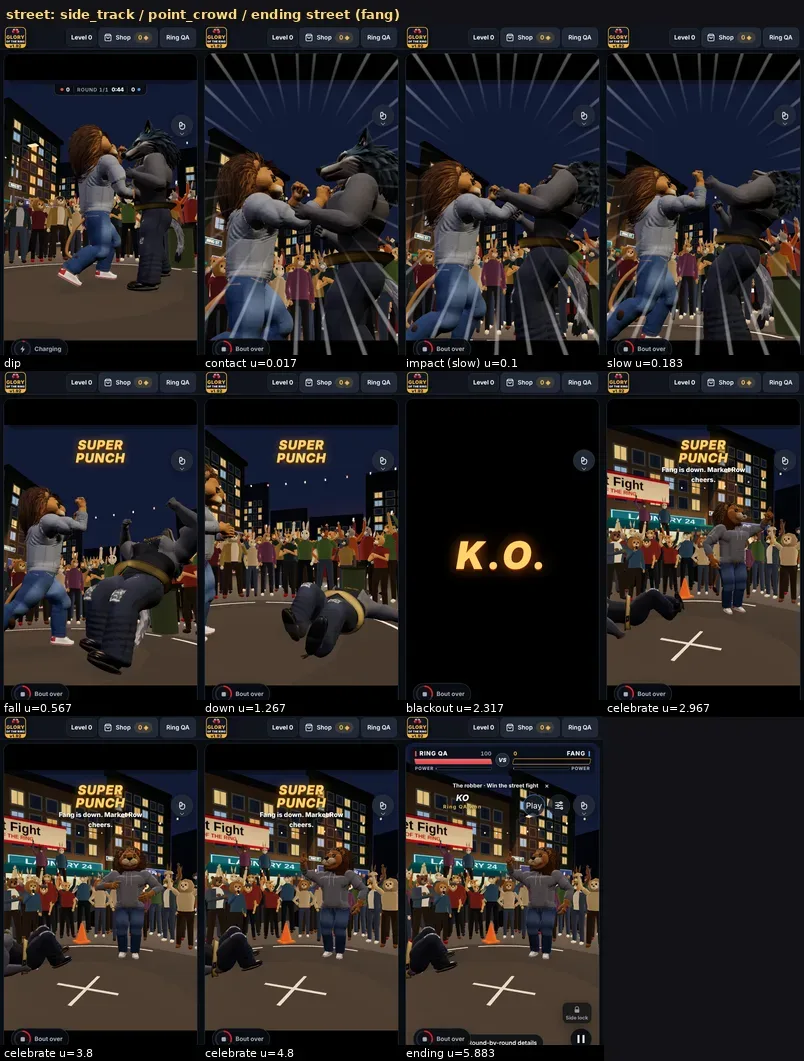
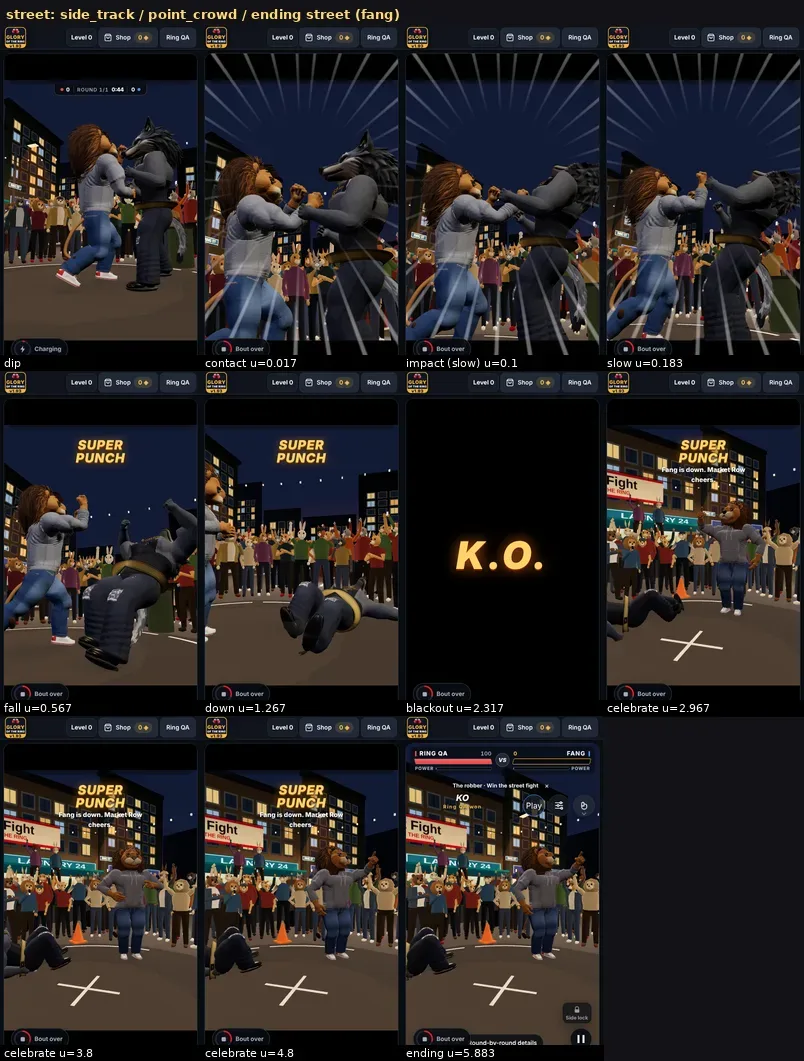
Fang head: knocked down on his back the head nods and rests on its ruff instead of sinking into the ground; KO close-ups; tool fixes
Claude-Session: https://claude.ai/code/session_012XYxhNGd6wn6U9MuUmHsfB

diff --git a/adventure/story/cast-market.js b/adventure/story/cast-market.js
@@ -248,7 +248,7 @@
   /** Face acting on the rig's own update: lag, the jaw parts from the anatomy channel the fight drives (a hit opens the mouth too). */
   function install(rig) {
     const base = rig.updateMane.bind(rig);
-    rig.updateMane = time => { base(time); settle(rig, time); mouthParts(rig, rig.anatomy?.value?.[12] || 0); };
+    rig.updateMane = time => { base(time); settle(rig, time); mouthParts(rig, rig.anatomy?.value?.[12] || 0); if (rig.castHead) headGround(rig, time); };
     // the lion's default mouth parts sit where a lion's mouth is: these faces open their own jaw instead
     if (!rig.castMouth) rig.castMouth = { show: [], talk: rig.cast?.talkGain ?? .7 };
     const dummy = new THREE.Object3D(); dummy.visible = false;
@@ -417,6 +417,26 @@
       h.group?.parent?.remove(h.group); for (const [o, mask] of h.hidden) o.layers.mask = mask; h.hidden = []; skinHead(rig, false); h.on = false;
     }
     return h.on;
+  }
+  /** Knocked down on his back the model's ears and the long ruff behind the skull would go through the ground: while the head joint
+   *  is low, the model nods about the joint (chin toward the chest, or back) by the smallest angle that keeps it above the ground,
+   *  eased in and out; what a nod of up to 0.64 rad cannot clear is lifted (up to 14 cm: the head rests on its ruff). Probe: every 24th vertex of the model, head-joint frame. */
+  const NOD = [0, .08, -.08, .16, -.16, .24, -.24, .32, .4, .48, .56, .64], nodQ = new THREE.Matrix4(), nodM = new THREE.Matrix4(), nodV = V();
+  function headGround(rig, time) {
+    const h = rig.castHead, g = h.group; if (!h.on || !g) { if (g) { g.rotation.x = 0; g.position.set(0, 0, 0); } return; }
+    const dt = h.t == null ? 1 / 30 : Math.min(.1, Math.max(0, time - h.t)); h.t = time;
+    const head = rig.joints.head; head.updateWorldMatrix(true, false); rig.root.getWorldPosition(tmpV); const ground = tmpV.y, m = head.matrixWorld;
+    let want = 0, lift = 0;
+    if (m.elements[13] - ground < .75) {
+      const pts = h.probe || (h.probe = (() => { const out = []; g.traverse(o => { if (!o.isMesh) return; const P = o.geometry.attributes.position; for (let i = 0; i < P.count; i += 24) out.push(V().fromBufferAttribute(P, i)); }); return out; })());
+      const low = a => { nodM.multiplyMatrices(m, nodQ.makeRotationX(a)); let y = 1e9; for (const p of pts) { nodV.copy(p).applyMatrix4(nodM); if (nodV.y < y) y = nodV.y; } return y - ground; };
+      let best = 0, bestLow = -1e9;
+      for (const a of NOD) { const l = low(a); if (l >= -.02) { best = a; bestLow = l; break; } if (l > bestLow) { best = a; bestLow = l; } }
+      want = best; lift = clamp(-.02 - bestLow, 0, .14); // what the nod cannot clear: the head rests on its ruff, raised off the ground
+    }
+    const k = Math.min(1, dt * 6); h.nod = (h.nod || 0) + (want - (h.nod || 0)) * k; h.lift = (h.lift || 0) + (lift - (h.lift || 0)) * k;
+    g.rotation.x = Math.abs(h.nod) < 1e-4 ? 0 : h.nod;
+    if (h.lift > 1e-4) { nodV.set(0, h.lift, 0).transformDirection(nodQ.copy(m).invert()).multiplyScalar(h.lift); g.position.copy(nodV); } else g.position.set(0, 0, 0);
   }
   // the skin above the collar (head and neck bones) folds toward the neck axis: fully on the head, fading out down to the collar
   const FOLD = { from: 1.79, to: 1.85, amount: .62 };

diff --git a/index.html b/index.html
@@ -120,7 +120,7 @@
   <script src="./adventure/story/market-core.js?v=20261122arm1" defer></script>
   <script src="./adventure/story/paws.js?v=20261122pp2" defer></script>
   <script src="./adventure/story/story-cast.js?v=2026112295" defer></script>
-  <script src="./adventure/story/cast-market.js?v=20261124fang2" defer></script>
+  <script src="./adventure/story/cast-market.js?v=20261124fang3" defer></script>
   <script src="./adventure/story/cast-docks.js?v=2026112295" defer></script>
   <script src="./adventure/story/street-wear.js?v=2026111404" defer></script>
   <script src="./adventure/story/dream-pose.js?v=2026112316" defer></script>
